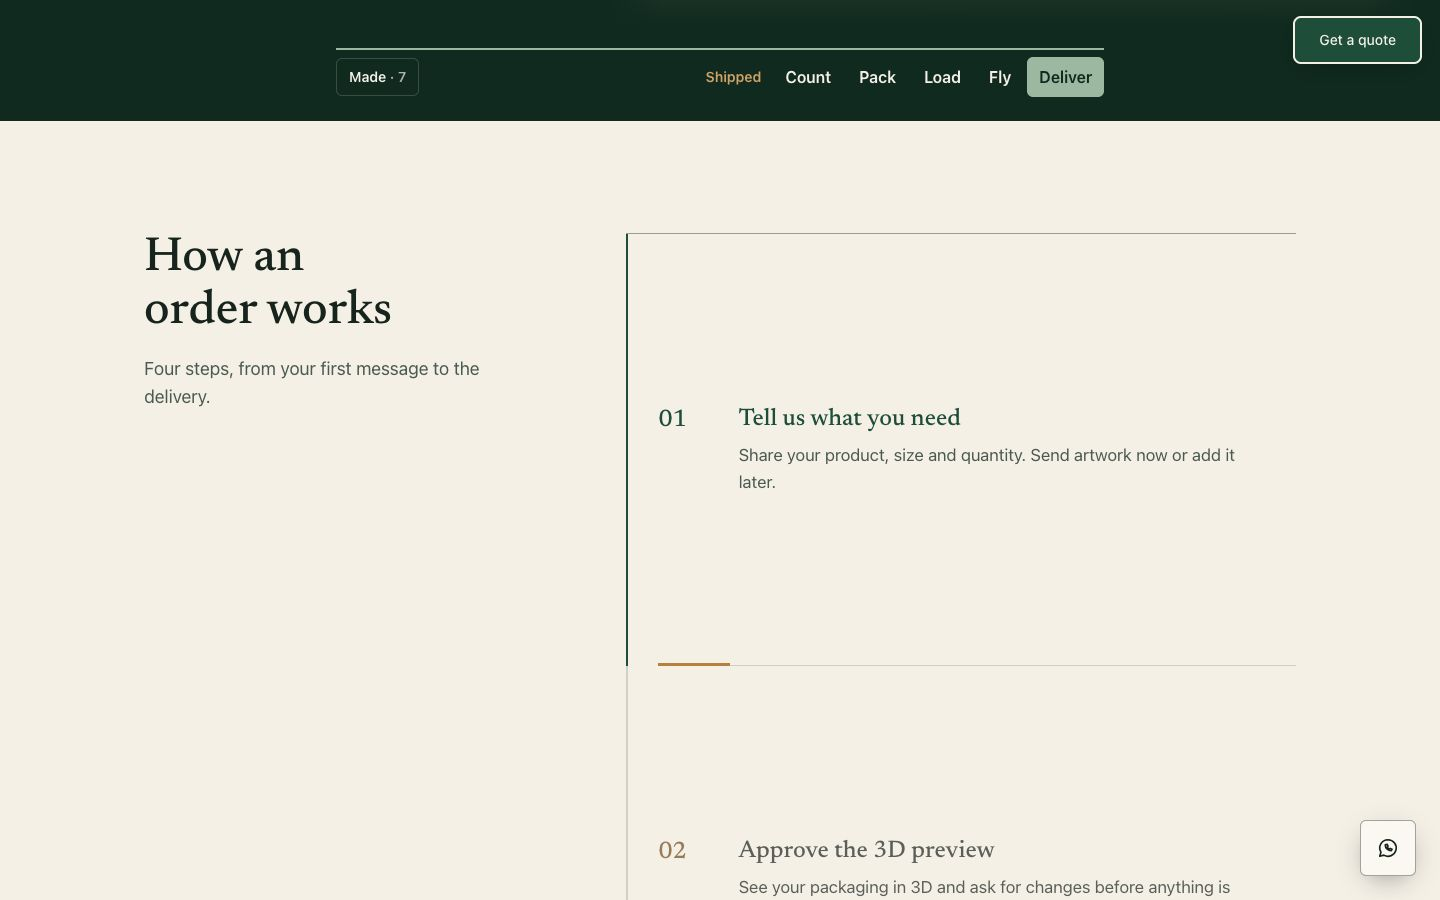
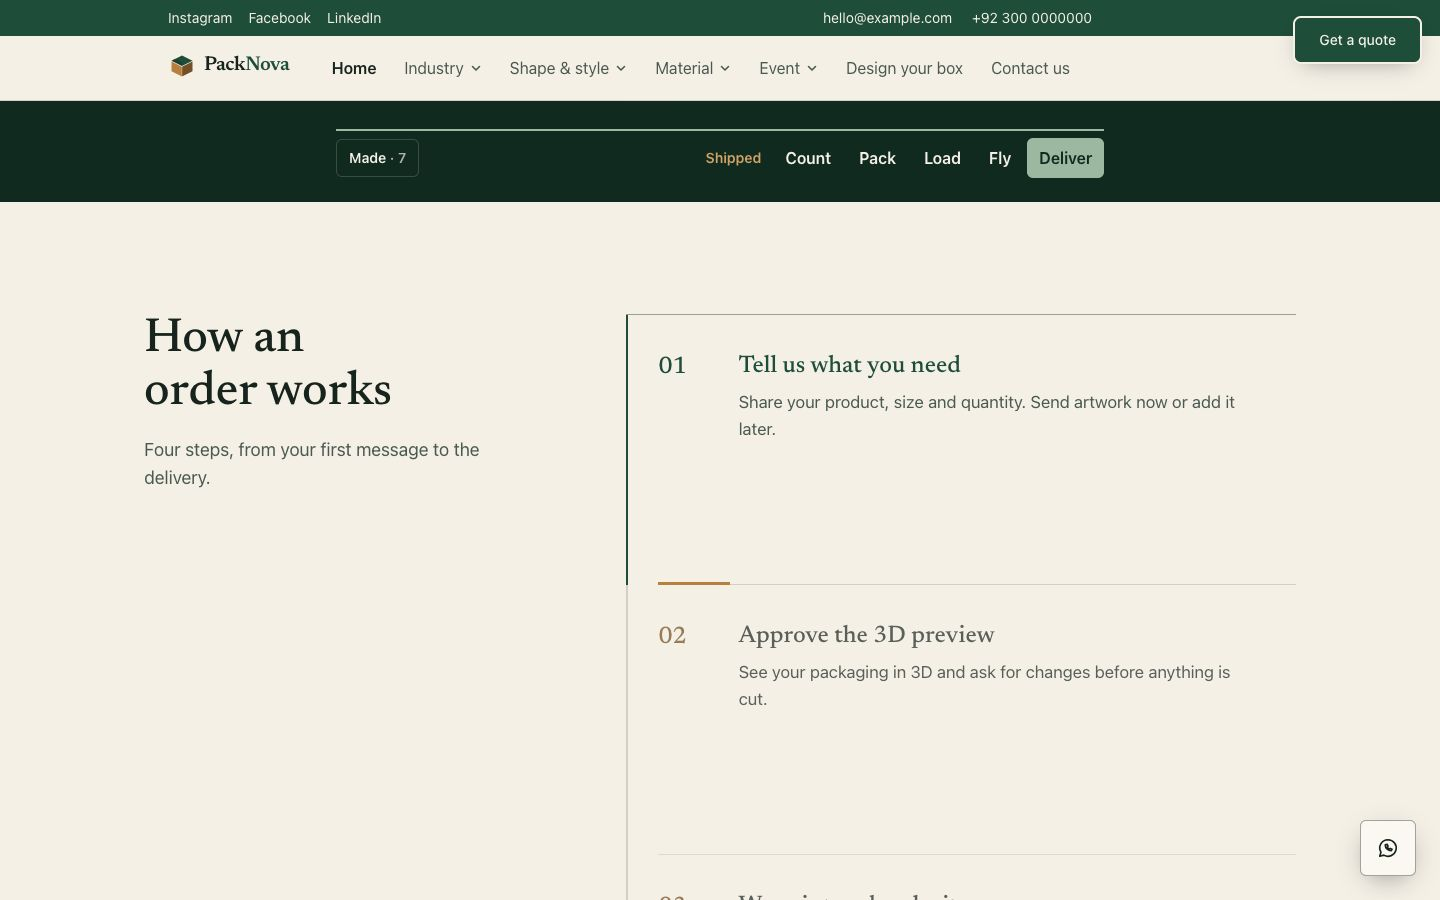
Fix three layout flaws: wordmark cut off on the hero carton, oversized card drawings, too much space between order steps
- carton wordmark is fitted to the panel (measured, shrinks until it clears the panel edge), posters re-exported
- 'What we make' card drawings about half the size (2:1 plate, wider side padding)
- 'How an order works' steps 30svh tall (was 48svh), content at the top of each step

diff --git a/src/templates/eco/Products.tsx b/src/templates/eco/Products.tsx
@@ -27,7 +27,7 @@ export default function Products() {
                 recipe={PAGE_BY_HREF[HOME_CATEGORY_HREF[p.id]]?.recipe}
                 className="rel-card group flex h-full flex-col overflow-hidden rounded-[var(--r-card)] border border-[var(--line-strong)]"
               >
-                <span className="rel-plate block aspect-[16/10] w-full px-6 py-5 text-[var(--accent)]"><ProductIcon kind={p.icon} /></span>
+                <span className="rel-plate block aspect-[2/1] w-full px-10 py-5 text-[var(--accent)]"><ProductIcon kind={p.icon} /></span>
                 <span className="flex flex-1 flex-col p-5">
                   <span className="font-display text-2xl font-medium leading-tight">{p.name}</span>
                   <span className="mt-1.5 text-[var(--muted)]">{p.description}</span>

diff --git a/src/lib/textures.ts b/src/lib/textures.ts
@@ -205,7 +205,13 @@ export function brandPanelTexture(name: string, tagline: string, ink: string, pa
     poly([[0, -13], [12, -7], [0, -1], [-12, -7]], paper);
     g.fillStyle = paper;
     g.textBaseline = "alphabetic";
-    g.font = `600 170px ${font}`;
+    // the wordmark is fitted to the space right of the mark (panel edge minus a margin), so no letter can run off the panel
+    let size = 170;
+    g.font = `600 ${size}px ${font}`;
+    while (g.measureText(name).width > 1000 - 250 - 60 && size > 60) {
+      size -= 4;
+      g.font = `600 ${size}px ${font}`;
+    }
     g.fillText(name, 250, 308);
     g.fillRect(100, 380, 824, 3);
     g.font = `400 52px ${font}`;

diff --git a/src/templates/eco/process.css b/src/templates/eco/process.css
@@ -9,7 +9,7 @@
     position: sticky;
     top: calc(var(--header-h, 6.25rem) + 2rem);
   }
-  .process-step { min-height: 48svh; align-content: center; }
+  .process-step { min-height: 30svh; align-content: start; padding-top: 2.25rem; padding-bottom: 2.25rem; }
 }
 .process-list::before,
 .process-list::after {
